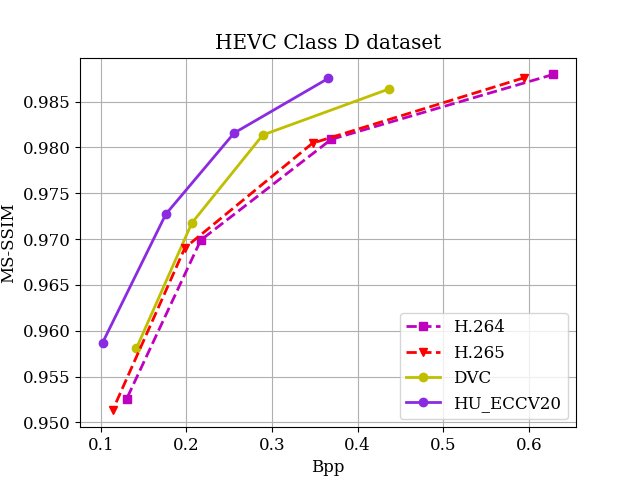
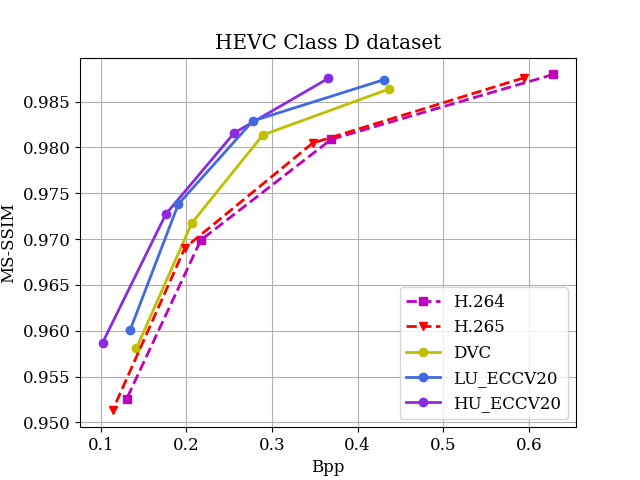
update performance of LU_ECCV20

diff --git a/Benchmark/draw_HEVC.py b/Benchmark/draw_HEVC.py
@@ -18,6 +18,9 @@ def drawhevc(hclass):
         bpp, psnr = [0.271843, 0.146412, 0.090925, 0.056782], [35.104963, 34.104735, 33.066283, 31.911116]
         RaFC, = plt.plot(bpp, psnr, "c-o", color="blueviolet", linewidth=LineWidth, label='HU_ECCV20')
         
+        bpp, psnr = [0.292566,0.161836, 0.106004, 0.072696], [35.490834,34.388072,33.31253, 32.153002]
+        LU, = plt.plot(bpp, psnr, "c-o", color="royalblue", linewidth=LineWidth, label='LU_ECCV20')
+
         # bpp = [0.0661, 0.09362000000000001, 0.14695999999999998, 0.2232]
         # psnr = [32.721524294756705, 33.61284158051482, 34.75174138791608, 35.718610694312616]
         # msssim = [0.959144, 0.964186, 0.97111, 0.9765840000000001]
@@ -39,6 +42,9 @@ def drawhevc(hclass):
     elif hclass == 'C':
         bpp, psnr = [0.345057, 0.244922, 0.16963, 0.107338], [32.58818, 31.563223, 30.362042, 28.849785]
         RaFC, = plt.plot(bpp, psnr, "c-o", color="blueviolet", linewidth=LineWidth, label='HU_ECCV20')
+
+        bpp, psnr = [0.44329, 0.2811825,  0.186065, 0.12845], [34.443885, 32.3978875, 30.7971525, 29.249145]
+        LU, = plt.plot(bpp, psnr, "c-o", color="royalblue", linewidth=LineWidth, label='LU_ECCV20')
         
         # bpp = [0.12157499999999999, 0.17965, 0.271025, 0.38745]
         # psnr = [28.63609903605147, 29.944387388321196, 31.54062511303266, 33.03500011196936]
@@ -61,6 +67,9 @@ def drawhevc(hclass):
     elif hclass == 'D':
         bpp, psnr = [0.37856, 0.274477, 0.192981, 0.121238], [32.642264, 31.520746, 30.215077, 28.655284]
         RaFC, = plt.plot(bpp, psnr, "c-o", color="blueviolet", linewidth=LineWidth, label='HU_ECCV20')
+        
+        bpp, psnr = [0.4673675, 0.2995675, 0.19376,0.133075], [34.4069875, 32.2339375, 30.45044, 28.883315]
+        LU, = plt.plot(bpp, psnr, "c-o", color="royalblue", linewidth=LineWidth, label='LU_ECCV20')
 
         
         # bpp = [0.11227499999999999, 0.17395000000000002, 0.264575, 0.38207500000000005]
@@ -84,6 +93,9 @@ def drawhevc(hclass):
     elif hclass == 'E':
         bpp, psnr = [0.102672, 0.059125, 0.041676, 0.028598], [39.933601, 38.773299, 37.673584, 36.296838]
         RaFC, = plt.plot(bpp, psnr, "c-o", color="blueviolet", linewidth=LineWidth, label='HU_ECCV20')
+        
+        bpp, psnr = [0.11462,0.069586667,0.050683333,0.037183333], [40.11296333,38.96264,37.73251333,36.31533667]
+        LU, = plt.plot(bpp, psnr, "c-o", color="royalblue", linewidth=LineWidth, label='LU_ECCV20')
 
         # bpp = [0.02223333333333333, 0.0281, 0.04416666666666667, 0.06459999999999999]
         # psnr = [36.119993400198794, 36.895272069830746, 37.95133358562974, 38.59336757723919]
@@ -110,7 +122,7 @@ def drawhevc(hclass):
     print(prefix)
     if not os.path.exists(prefix):
         os.makedirs(prefix)
-    plt.legend(handles=[h264, h265, DVC, RaFC], loc=4)
+    plt.legend(handles=[h264, h265, DVC, LU, RaFC], loc=4)
     plt.grid()
     plt.xlabel('Bpp')
     plt.ylabel('PSNR')
@@ -124,6 +136,9 @@ def drawhevc(hclass):
         
         bpp, msssim = [0.286055, 0.171946, 0.104357, 0.062172], [0.978676, 0.9724, 0.96476, 0.953966]
         RaFC, = plt.plot(bpp, msssim, "c-o", color="blueviolet", linewidth=LineWidth, label='HU_ECCV20')
+
+        bpp, msssim = [0.292566,0.161836, 0.106004, 0.072696], [0.974654,0.968922,0.961012,0.948494]
+        LU, = plt.plot(bpp, msssim, "c-o", color="royalblue", linewidth=LineWidth, label='LU_ECCV20')
 
         # bpp = [0.0661, 0.09362000000000001, 0.14695999999999998, 0.2232]
         # psnr = [32.721524294756705, 33.61284158051482, 34.75174138791608, 35.718610694312616]
@@ -149,6 +164,9 @@ def drawhevc(hclass):
         bpp, psnr = [0.358622, 0.243691, 0.163198, 0.094394], [0.984432, 0.978034, 0.968136, 0.950041]
         RaFC, = plt.plot(bpp, psnr, "c-o", color="blueviolet", linewidth=LineWidth, label='HU_ECCV20')
 
+        bpp, msssim = [0.1263825, 0.1769925, 0.258575,  0.4006125], [0.95457, 0.9681725, 0.978235, 0.9829975]
+        LU, = plt.plot(bpp, msssim, "c-o", color="royalblue", linewidth=LineWidth, label='LU_ECCV20')
+
         # bpp = [0.12157499999999999, 0.17965, 0.271025, 0.38745]
         # psnr = [28.63609903605147, 29.944387388321196, 31.54062511303266, 33.03500011196936]
         # msssim = [0.9578025, 0.9686675, 0.9776324999999999, 0.98348]
@@ -172,6 +190,9 @@ def drawhevc(hclass):
         
         bpp, psnr = [0.365465, 0.255783, 0.176039, 0.102085], [0.987527, 0.981579, 0.972727, 0.958684]
         RaFC, = plt.plot(bpp, psnr, "c-o", color="blueviolet", linewidth=LineWidth, label='HU_ECCV20')
+
+        bpp, msssim = [0.1341975, 0.190485, 0.2775625,0.4304825], [0.9600475, 0.9738, 0.98289, 0.98739]
+        LU, = plt.plot(bpp, msssim, "c-o", color="royalblue", linewidth=LineWidth, label='LU_ECCV20')
         
         # bpp = [0.11227499999999999, 0.17395000000000002, 0.264575, 0.38207500000000005]
         # psnr = [28.82520179437781, 30.23478970812226, 31.91116994008828, 33.53631860458036]
@@ -195,6 +216,10 @@ def drawhevc(hclass):
         
         bpp, psnr = [0.138196, 0.078092, 0.04724, 0.029643], [0.990446, 0.988069, 0.985217, 0.980766]
         RaFC, = plt.plot(bpp, psnr, "c-o", color="blueviolet", linewidth=LineWidth, label='HU_ECCV20')
+
+        bpp, msssim = [0.11462,0.069586667,0.050683333,0.037183333], [0.988766667, 0.9864, 0.982756667, 0.976416667]
+        LU, = plt.plot(bpp, msssim, "c-o", color="royalblue", linewidth=LineWidth, label='LU_ECCV20')
+
         
         # bpp = [0.02223333333333333, 0.0281, 0.04416666666666667, 0.06459999999999999]
         # psnr = [36.119993400198794, 36.895272069830746, 37.95133358562974, 38.59336757723919]
@@ -217,10 +242,9 @@ def drawhevc(hclass):
     else:
         print('no such class : ', + hclass)
         exit(0)
-
         
     savepathmsssim = prefix + '/' + 'HEVCClass_' + hclass + '_msssim'# + '.eps'
-    plt.legend(handles=[h264, h265, DVC, RaFC], loc=4)
+    plt.legend(handles=[h264, h265, DVC, LU, RaFC], loc=4)
     plt.grid()
     plt.xlabel('Bpp')
     plt.ylabel('MS-SSIM')

diff --git a/Benchmark/draw_mcl.py b/Benchmark/draw_mcl.py
@@ -13,6 +13,9 @@ matplotlib.rc('font', **font)
 
 bpp, psnr = [0.177528, 0.105804, 0.069346, 0.044944], [38.044085, 36.90718, 35.749727, 34.440707]
 rafc, = plt.plot(bpp, psnr, 'c-*', color="blueviolet", linewidth=LineWidth, label='HU_ECCV20')
+    
+bpp, psnr = [0.211752, 0.133820333, 0.093098, 0.067195667], [38.161138, 37.13298733, 35.91979567, 34.65774567]
+LU, = plt.plot(bpp, psnr, "c-o", color="royalblue", linewidth=LineWidth, label='LU_ECCV20')
 
 
 bpp, psnr =  [0.043773, 0.065584, 0.093487, 0.152313, 0.260900, 0.416239], [33.459643, 34.659647, 36.299582, 37.555222, 38.784670, 39.781974]
@@ -47,7 +50,7 @@ savepathpsnreps = prefix + '/MCL_psnr' + '.eps'
 print(prefix)
 if not os.path.exists(prefix):
     os.makedirs(prefix)
-plt.legend(handles=[h264, h265, DVC, iccv19, EA, rafc], loc=4)
+plt.legend(handles=[h264, h265, DVC, iccv19, EA, LU, rafc], loc=4)
 plt.grid()
 plt.xlabel('Bpp')
 plt.ylabel('PSNR')
@@ -61,6 +64,9 @@ plt.clf()
 
 bpp, psnr = [0.21493, 0.131528, 0.081933, 0.051843], [0.98331, 0.978267, 0.972588, 0.964108]
 rafc, = plt.plot(bpp, psnr, 'c-*', color="blueviolet", linewidth=LineWidth, label='HU_ECCV20')
+    
+bpp, psnr = [0.211752, 0.133820333, 0.093098, 0.067195667], [0.979231,0.974493667,0.968179333,0.958875667]
+LU, = plt.plot(bpp, psnr, "c-o", color="royalblue", linewidth=LineWidth, label='LU_ECCV20')
 
 bpp, psnr =  [0.039060, 0.059494, 0.084072, 0.122407, 0.228456, 0.326567], [0.958350, 0.965656, 0.973480, 0.977267, 0.984815, 0.987433]
 EA, = plt.plot(bpp, psnr, "g-o", color="orange", linewidth=LineWidth, label='EA_CVPR20')
@@ -85,7 +91,7 @@ h265, = plt.plot(bpp, msssim, "r--v", linewidth=LineWidth, label='H.265')
 
 savepathmsssim = prefix + '/' + 'MCL_msssim' + '.png'
 savepathmsssimeps = prefix + '/' + 'MCL_msssim' + '.eps'
-plt.legend(handles=[h264, h265, DVC, EA, iccv19, rafc], loc=4)
+plt.legend(handles=[h264, h265, DVC, EA, iccv19, LU, rafc], loc=4)
 plt.grid()
 plt.xlabel('Bpp')
 plt.ylabel('MS-SSIM')

diff --git a/Benchmark/draw_vtl.py b/Benchmark/draw_vtl.py
@@ -15,6 +15,9 @@ matplotlib.rc('font', **font)
 bpp, psnr = [0.296787, 0.19001, 0.126534, 0.080851], [34.303688, 33.036154, 31.737594, 30.490966]
 rafc, = plt.plot(bpp, psnr, 'c-*', color="blueviolet", linewidth=LineWidth, label='HU_ECCV20')
 
+bpp, psnr = [0.3059625, 0.199, 0.136516, 0.093883], [34.5241105,  33.20, 31.7834635, 30.4204885]
+LU, = plt.plot(bpp, psnr, "c-o", color="royalblue", linewidth=LineWidth, label='LU_ECCV20')
+
 bpp = [0.149002168, 0.194118677, 0.269459397, 0.484332918]#, 0.956521083]
 psnr = [31.67178903, 32.56079993, 33.57877741, 35.89857494]#, 38.44629636]
 iccv, = plt.plot(bpp, psnr, "c-*", linewidth=LineWidth, label='AD_ICCV19')
@@ -32,7 +35,7 @@ savepathpsnr = prefix + '/VTL_psnr'# + '.eps'
 print(prefix)
 if not os.path.exists(prefix):
     os.makedirs(prefix)
-plt.legend(handles=[h264, h265, DVC, iccv, rafc], loc=4)
+plt.legend(handles=[h264, h265, DVC, iccv, LU, rafc], loc=4)
 plt.grid()
 plt.xlabel('Bpp')
 plt.ylabel('PSNR')
@@ -51,6 +54,9 @@ plt.clf()
 bpp, msssim = [0.291837, 0.189759, 0.121654, 0.070671], [0.984102, 0.978341, 0.97124, 0.959966]
 rafc, = plt.plot(bpp, msssim, 'c-*', color="blueviolet", linewidth=LineWidth, label='HU_ECCV20')
 
+bpp, psnr = [0.3059625, 0.199, 0.136516, 0.093883], [0.9838005, 0.9793955, 0.9732655, 0.964076]
+LU, = plt.plot(bpp, psnr, "c-o", color="royalblue", linewidth=LineWidth, label='LU_ECCV20')
+
 bpp = [0.149002168, 0.194118677, 0.269459397, 0.484332918]#, 0.956521083]
 psnr = [0.971382803, 0.975893586, 0.980153643, 0.988934007]#, 0.994301121]
 iccv, = plt.plot(bpp, psnr, "c-*", linewidth=LineWidth, label='AD_ICCV19')
@@ -68,7 +74,7 @@ h265, = plt.plot(bpp, msssim, "r--v", linewidth=LineWidth, label='H.265')
 
 
 savepathmsssim = prefix + '/' + 'VTL_msssim'# + '.eps'
-plt.legend(handles=[h264, h265, DVC, iccv, rafc], loc=4)
+plt.legend(handles=[h264, h265, DVC, iccv, LU, rafc], loc=4)
 plt.grid()
 plt.xlabel('Bpp')
 plt.ylabel('MS-SSIM')

diff --git a/Benchmark/draw_uvg.py b/Benchmark/draw_uvg.py
@@ -22,6 +22,9 @@ LineWidth = 2
 bpp, psnr = [0.040222, 0.059522, 0.090525, 0.155768], [34.36477, 35.594595, 36.651909, 37.74166]
 rafc, = plt.plot(bpp, psnr, 'c-*', color="blueviolet", linewidth=LineWidth, label='HU_ECCV20')
 
+bpp, psnr = [0.055, 0.07727, 0.114, 0.189], [34.655, 35.941, 37.066, 38.061]
+LU, = plt.plot(bpp, psnr, "c-o", color="royalblue", linewidth=LineWidth, label='LU_ECCV20')
+
 bpp, psnr =  [0.047607, 0.067984, 0.114375, 0.222292], [34.412507, 35.861409, 36.950722, 38.393440]
 EA, = plt.plot(bpp, psnr, "g-o", color="orange", linewidth=LineWidth, label='EA_CVPR20')
 
@@ -48,7 +51,7 @@ savepathpsnr = prefix + '/UVG_psnr'
 print(prefix)
 if not os.path.exists(prefix):
     os.makedirs(prefix)
-plt.legend(handles=[h264, h265, DVC, eccv, iccv, EA, rafc], loc=4)
+plt.legend(handles=[h264, h265, DVC, eccv, iccv, EA, LU, rafc], loc=4)
 plt.grid()
 plt.xlabel('Bpp')
 plt.ylabel('PSNR')
@@ -67,6 +70,9 @@ plt.clf()
 
 bpp, psnr = [0.218918, 0.130343, 0.077172, 0.04779], [0.978714, 0.972417, 0.965527, 0.956974]
 rafc, = plt.plot(bpp, psnr, 'c-*', color="blueviolet", linewidth=LineWidth, label='HU_ECCV20')
+    
+bpp, psnr = [0.258854285714286,  0.16422, 0.10424, 0.072], [0.979627142857143, 0.97517, 0.969065714285714, 0.96103]
+LU, = plt.plot(bpp, psnr, "c-o", color="royalblue", linewidth=LineWidth, label='LU_ECCV20')
 
 bpp, psnr =  [0.060844, 0.085622, 0.128203, 0.243156, 0.345827], [0.961259, 0.968878, 0.974102, 0.982171, 0.985049]
 EA, = plt.plot(bpp, psnr, "g-o", color="orange", linewidth=LineWidth, label='EA_CVPR20')
@@ -94,7 +100,7 @@ h265, = plt.plot(bpp, msssim, "r--v", linewidth=LineWidth, label='H.265')
 
 
 savepathmsssim = prefix + '/' + 'UVG_msssim'# + '.eps'
-plt.legend(handles=[h264, h265, DVC, eccv, ha_iccv, iccv, EA, rafc], loc=4)
+plt.legend(handles=[h264, h265, DVC, eccv, ha_iccv, iccv, EA, LU, rafc], loc=4)
 plt.grid()
 plt.xlabel('Bpp')
 plt.ylabel('MS-SSIM')

diff --git a/Benchmark/README.md b/Benchmark/README.md
@@ -8,6 +8,7 @@
 - <font color="#00FF00">AH_ICCV19</font> : [Video CompressionWith Rate-Distortion Autoencoders](https://arxiv.org/abs/1908.05717v2)
 - <font color="#008000">EA_CVPR20</font> : [Scale-space Flow for End-to-end Optimized Video Compression](https://ieeexplore.ieee.org/stamp/stamp.jsp?tp=&arnumber=9157366)
 - <font color="#8A2BE2">HU_ECCV20</font> : [Improving Deep Video Compression by Resolution-adaptive Flow Coding](http://www.ecva.net/papers/eccv_2020/papers_ECCV/papers/123470188.pdf)
+- <font color="#4169E1">LU_ECCV20</font> : [Content Adaptive and Error Propagation Aware Deep Video Compression](https://arxiv.org/pdf/2003.11282.pdf)
 - <font color="#ff8c0f">M-LVC</font> : [M-LVC: Multiple Frames Prediction for Learned Video Compression](https://arxiv.org/abs/2004.10290) (questionable)
    
 
